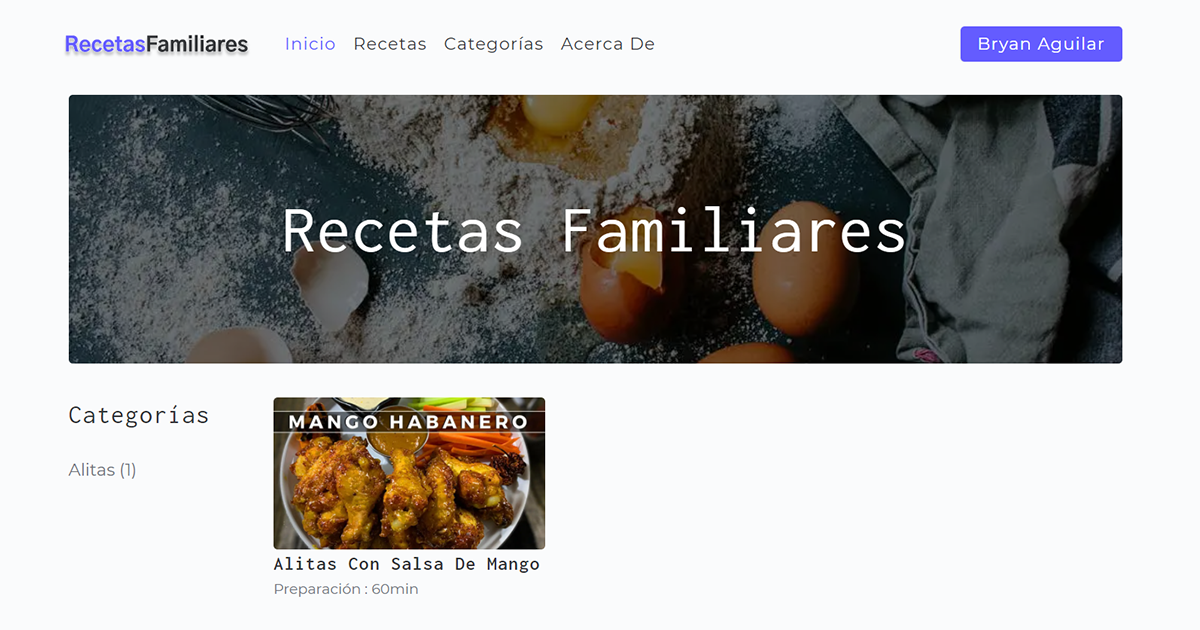
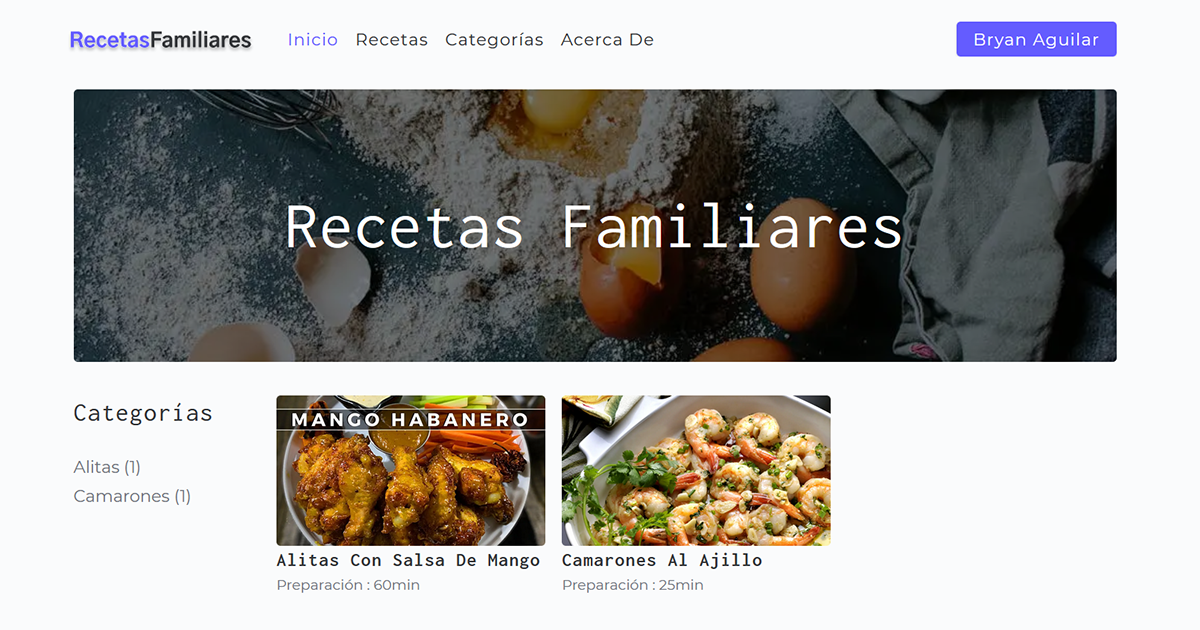
New recipe added

diff --git a/content/recipes/camaroles-ajillo/index.md b/content/recipes/camaroles-ajillo/index.md
@@ -1,0 +1,35 @@
+---
+title: 'Camarones al ajillo'
+slug: /camarones-ajillo
+cookTime: 15
+prepTime: 25
+servings: 5
+image: './camarones.jpg'
+feature: true
+ingredients:
+  - Camarones
+  - Dientes de ajo | Ajo en pasta
+  - Cebolla perla
+  - Vino blanco (opcional)
+  - Ralladura de limón
+  - Zumo de limón
+  - Perejil
+  - Aceite
+  - Platano verde (patacones)
+tools:
+  - Sartén
+tags:
+  - Camarones
+instructions:
+  - Cortar la cebolla perla en cuadritos y reservarla.
+  - Limpiar los dientes de ajo, luego aplastarlos y picarlos muy finalmente.
+  - Para aportar un poco más de frescura, cortar un poco de perejil.
+  - En un sartén, colocamos un poco de aceite y luego el ajo picado o en pasta y cocinarlo a fuego muy bajo.
+  - Una vez que el ajo se haya dorado, agregamos la cebolla perla y luego un poco de vino blanco y dejamos reducir la preparación para que todos los sabores se concentren.
+  - Preparamos nuestros patacones.
+  - Condimentamos los camarones con sal y pimienta.
+  - Agregamos los camarones a la preparación anterior, agregamos un poco de ralladura y zumo de limon.
+  - Dejamos cocinar los camarones hasta que estén cocidos, finalmente agregamos un poco de perejil.
+---
+
+Esta receta muestra la preparación de camarones al ajillo acompañado de patacones. La receta original se encuentra en [este video](https://www.youtube.com/watch?v=924Qrsezvwg).
